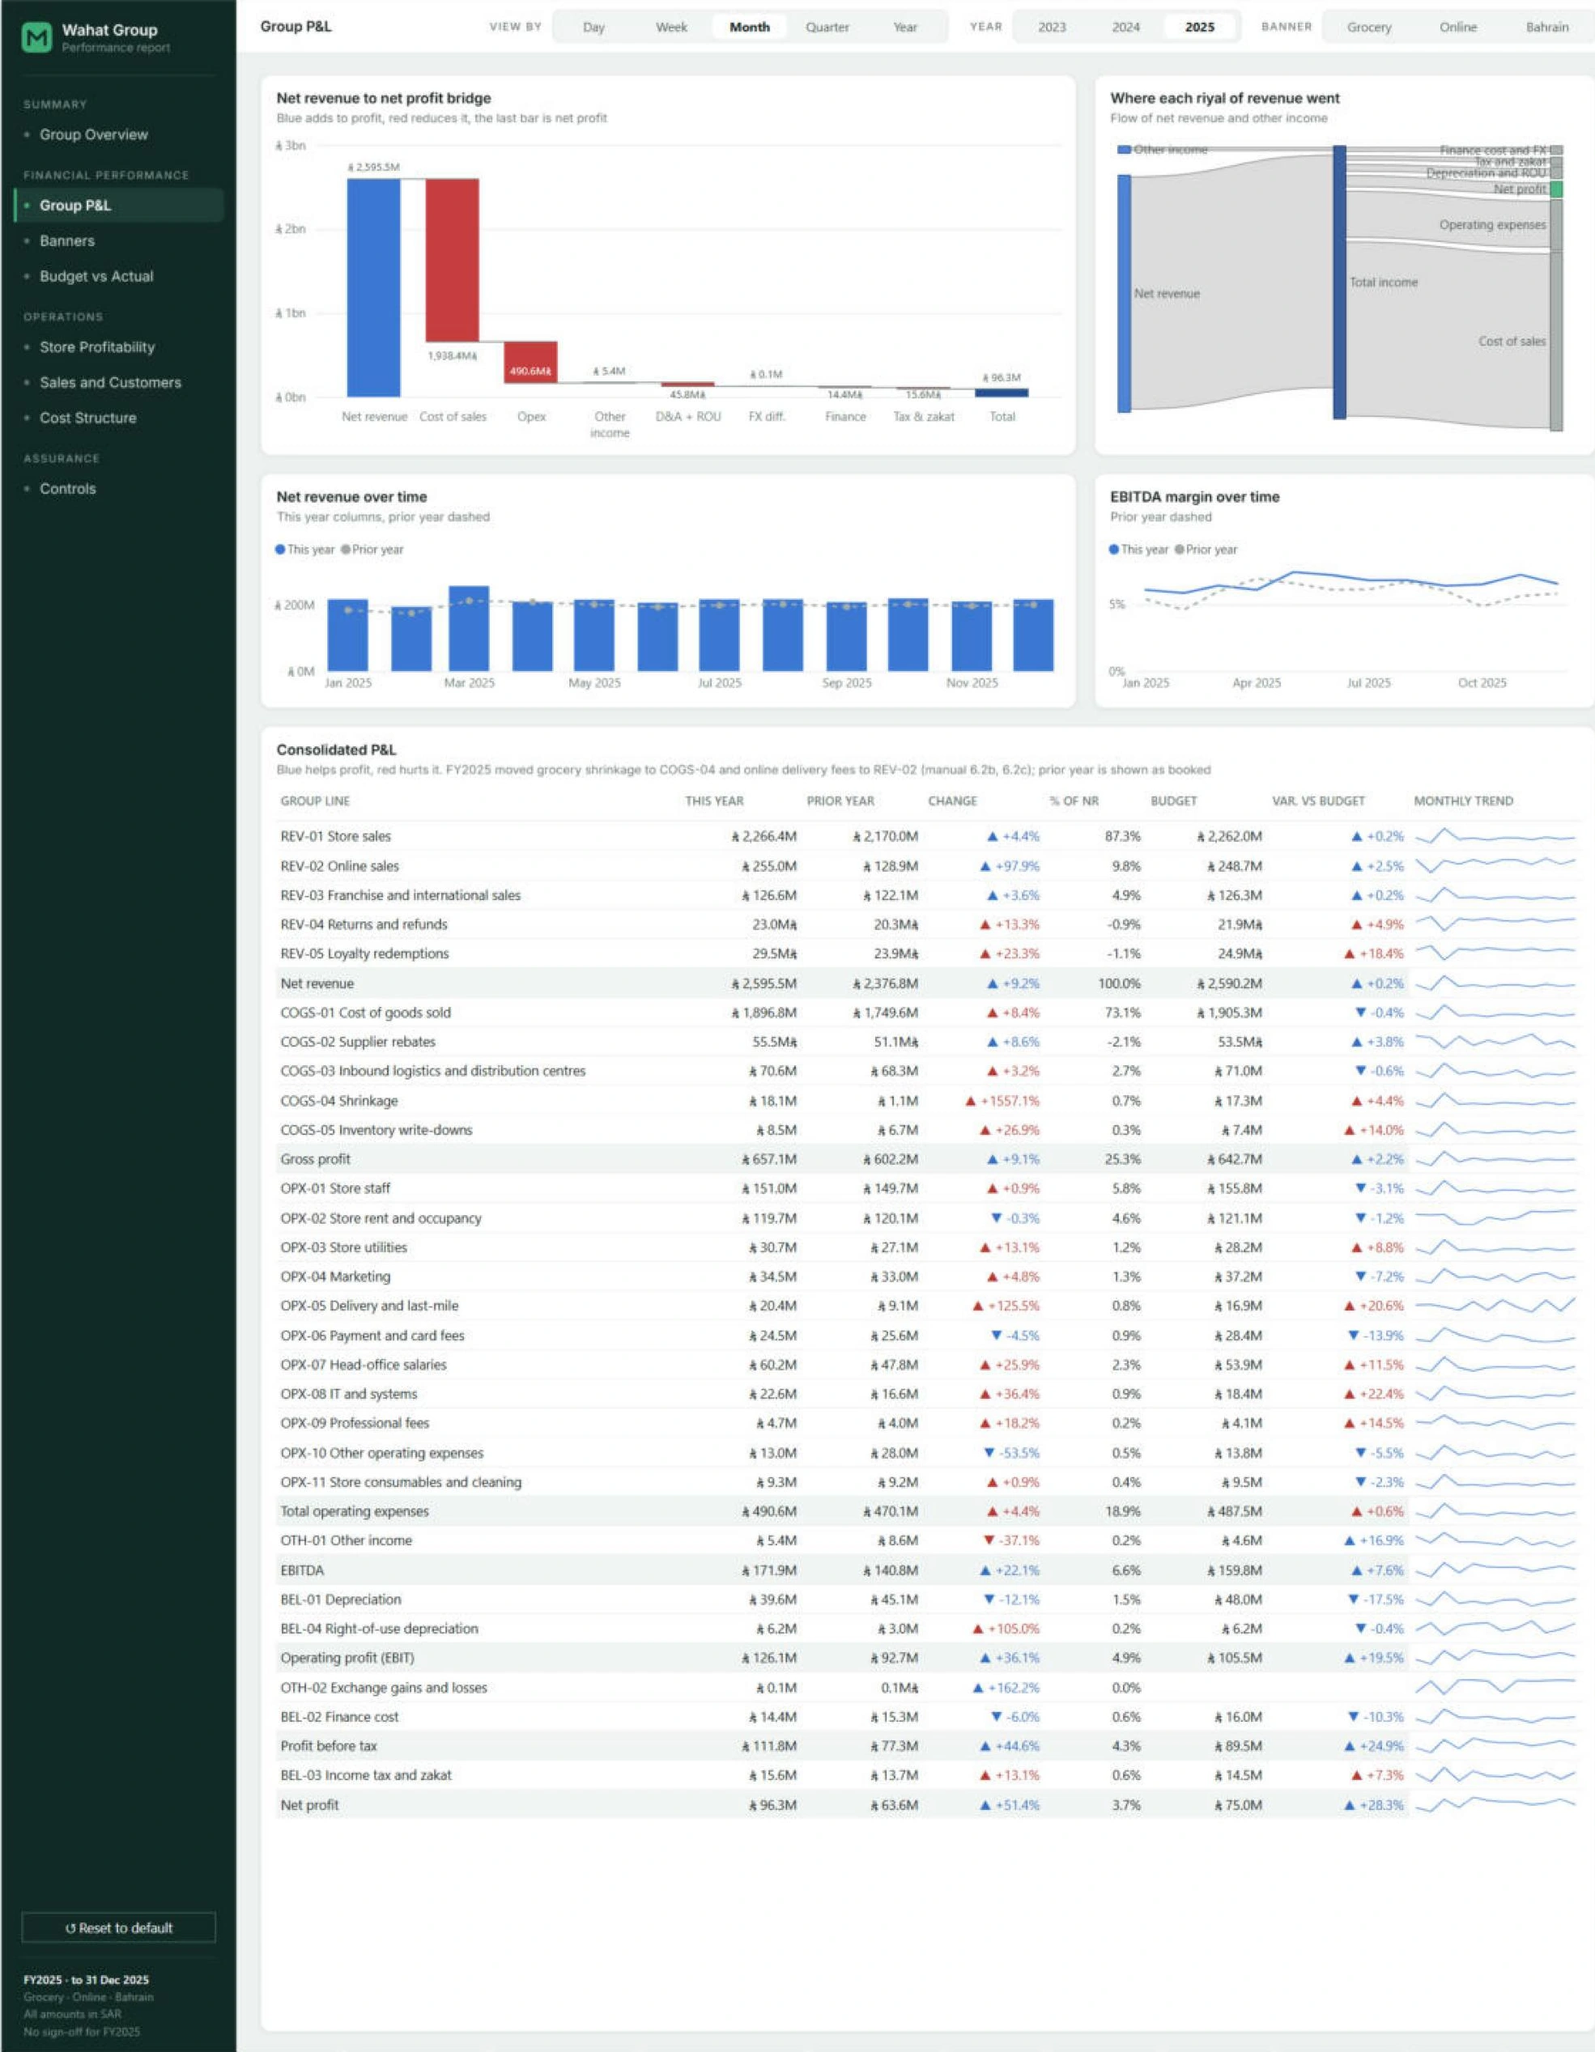
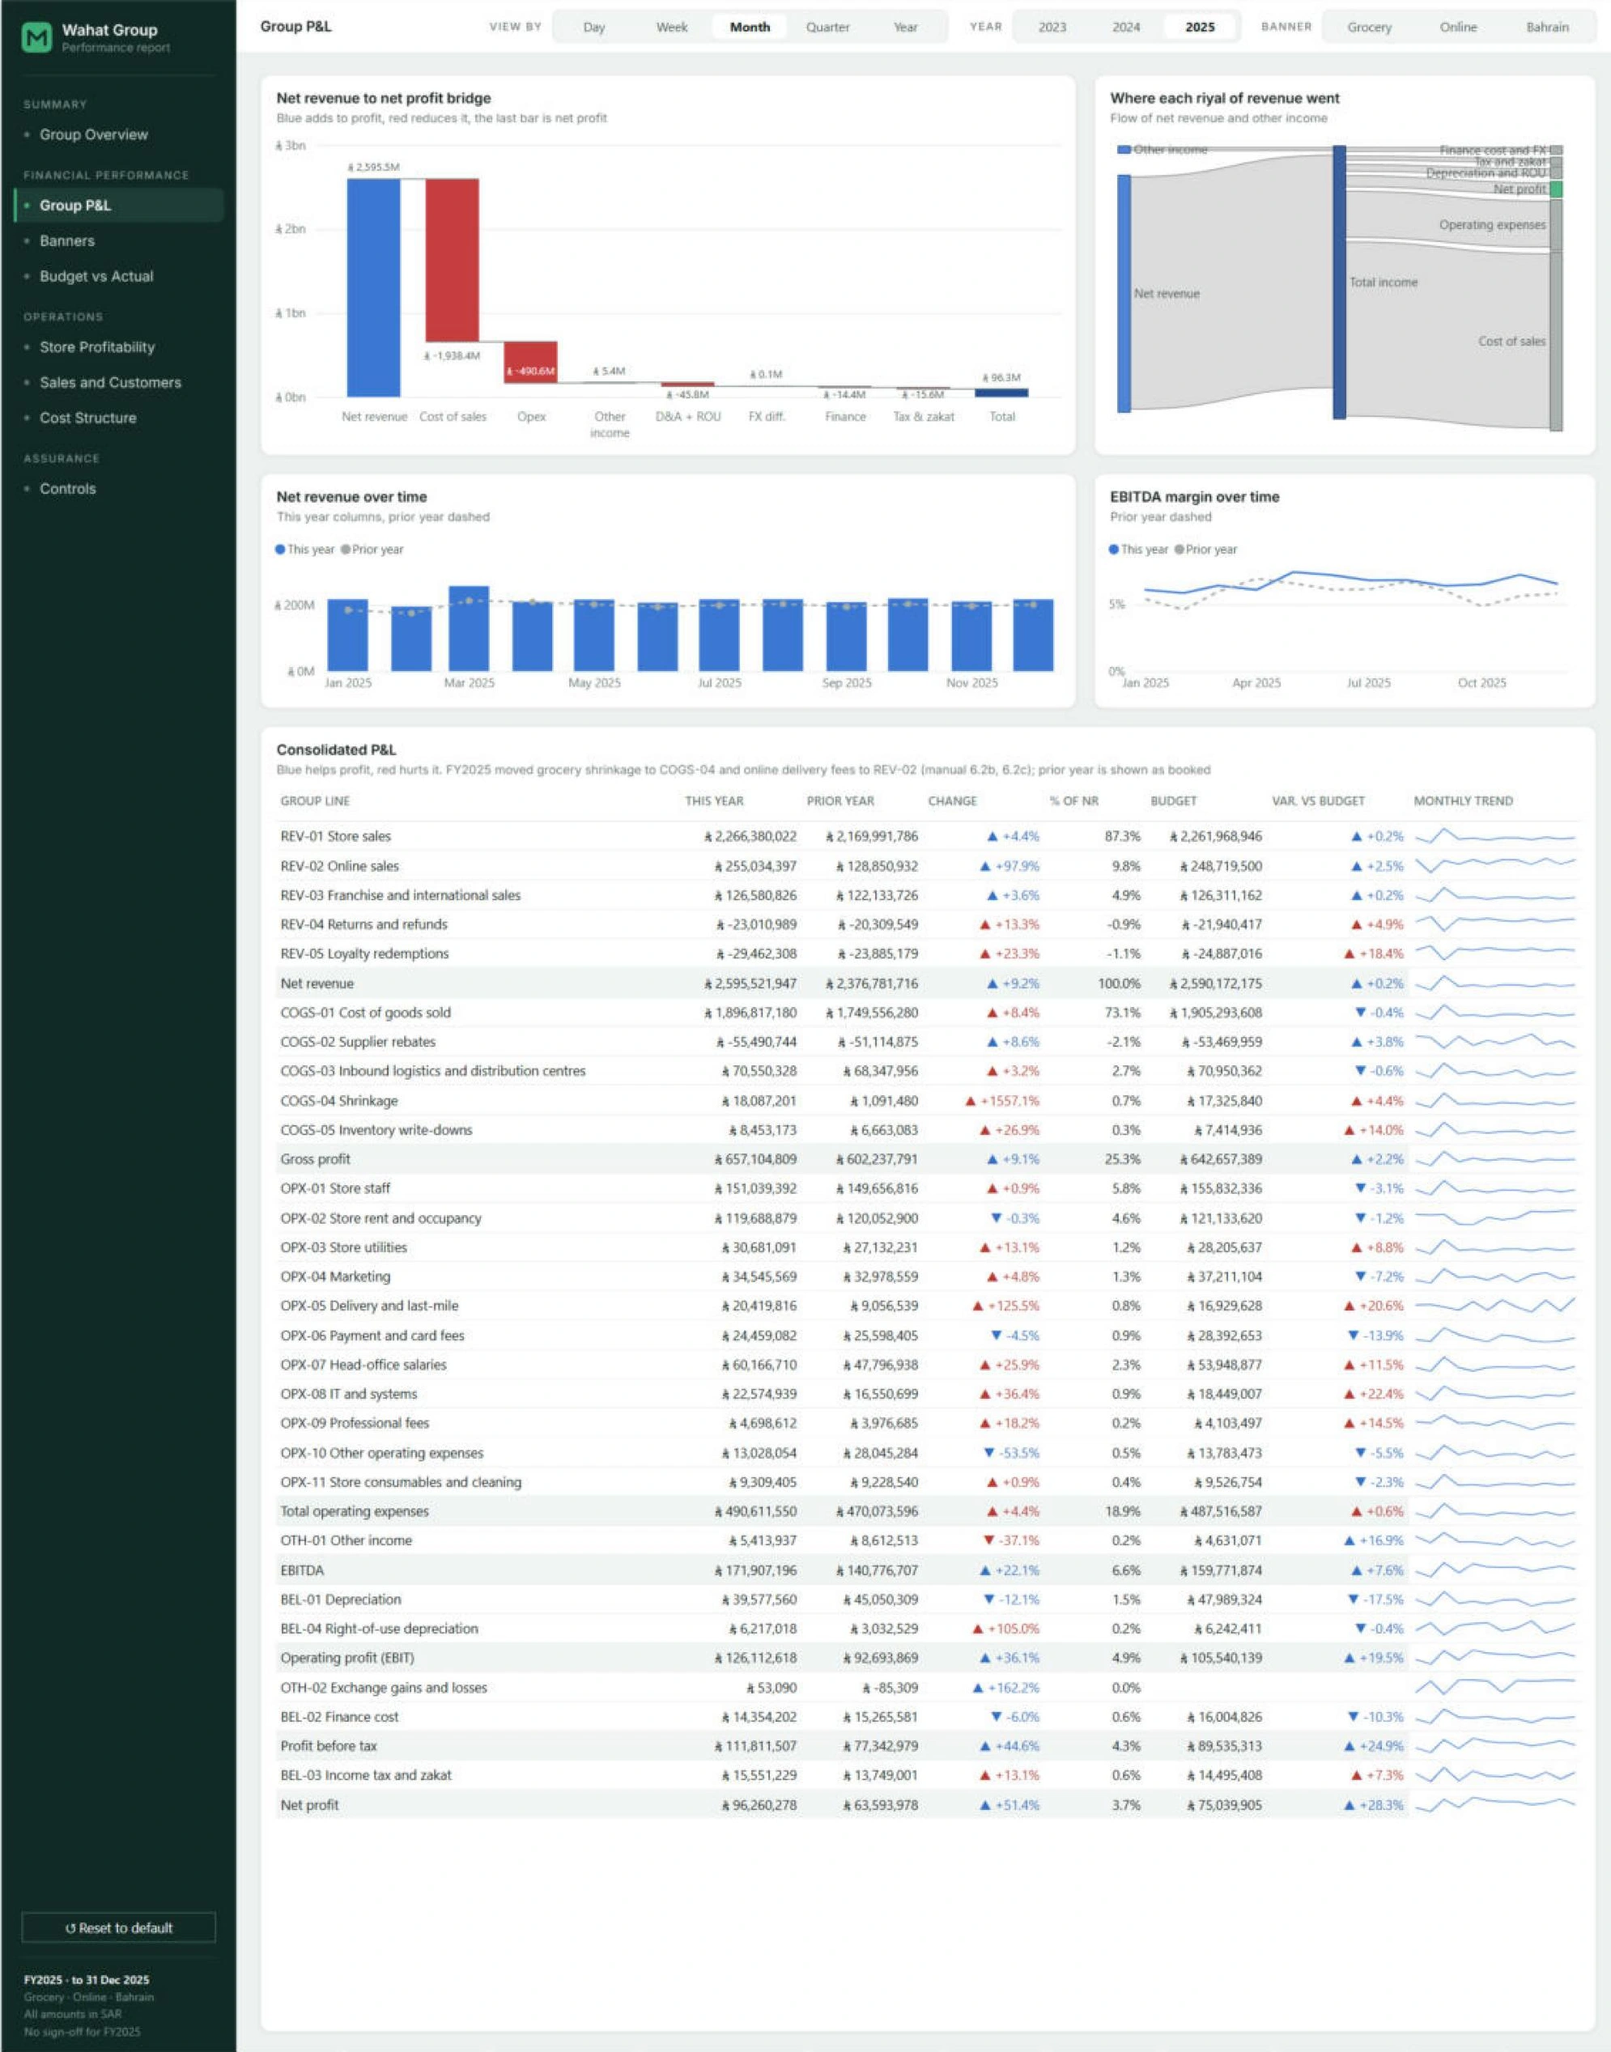
Riyal sign on the left for all amounts, full numbers in tables, riyal sign in tooltips + Update Wahat Power BI write-up and screenshots for riyal format and table units
- _Measures: one static format string for all 72 money measures,
  "⃁"\ #,0;"⃁"\ -#,0;"⃁"\ #,0, so negatives show the sign on the left
  like positives. Removed the ar-SA format hint so Desktop keeps it.
- Tooltip text measures, Tile Context EBITDA Budget and Loss Stores Note:
  "SAR" replaced with the riyal sign, minus after the sign.
- pnl_lines, bud_lines, bn_scorecard, st_table: display units None,
  no forced decimals.
- power-bi/README.md: "Money always looks like money" and Display units
  sections describe the left-side riyal sign and full numbers in every
  table; tooltip DAX snippets use the riyal sign.
- Retook screenshots 01 to 05 and 09 so they show the current format.

diff --git a/projects/wahat-retail-group-financial-report/power-bi/README.md b/projects/wahat-retail-group-financial-report/power-bi/README.md
@@ -160,13 +160,16 @@ Move the mouse over a month, a shop or a P&L line, and a small pop-up card appea
 
 ### 8. Money always looks like money
 
-Every amount shows the Saudi riyal sign. Each chart picks the size that reads best:
-- big totals in **millions** (2,595.5M),
-- single shops in **thousands** (-234K),
-- money per square metre **in full** (887),
-- the check tables **in full, to the last riyal**, because a check has to be exact.
+Every amount shows the Saudi riyal sign, always on the left, with the minus sign after it (⃁ -1,938.4M). Every number on every page reads the same way, tooltips included.
 
-**Why:** short numbers are easier on the eye, but a reconciliation can't round.
+Each chart picks the size that reads best:
+- big totals in **millions** (⃁ 2,595.5M),
+- single shops in **thousands** (⃁ -234K),
+- money per square metre **in full** (⃁ 887).
+
+Every table shows **full numbers, to the last riyal** (⃁ 2,266,380,022).
+
+**Why:** short numbers are easier on the eye in a chart. A table is read line by line and has to add up, so it can't round.
 
 ### 9. Simple sums on the inside, so it stays fast
 
@@ -2123,7 +2126,7 @@ VAR BudgetMillions =
 VAR Pattern =
     IF ( ABS ( BudgetMillions ) >= 100, "#,0", "#,0.0" )
 RETURN
-    "budget SAR " & FORMAT ( BudgetMillions, Pattern ) & "M"
+    "budget ⃁ " & FORMAT ( BudgetMillions, Pattern ) & "M"
 ```
 
 ```dax
@@ -2133,7 +2136,7 @@ FORMAT ( [Stores Whole Year], "#,0" ) & " traded the whole year"
 
 ```dax
 Loss Stores Note =
-FORMAT ( [Stores Below Loss Threshold] + 0, "#,0" ) & " below SAR -50,000"
+FORMAT ( [Stores Below Loss Threshold] + 0, "#,0" ) & " below ⃁ -50,000"
 ```
 
 ```dax
@@ -3050,7 +3053,7 @@ RETURN
 TT Net Revenue =
 VAR AmountShown = [Net Revenue]
 RETURN
-    IF ( NOT ISBLANK ( AmountShown ), IF ( AmountShown < 0, "-", "" ) & "SAR " & SWITCH ( TRUE (), ABS ( AmountShown ) >= 1E9, FORMAT ( ABS ( AmountShown ) / 1E9, "0.00" ) & "bn", ABS ( AmountShown ) >= 1E8, FORMAT ( ABS ( AmountShown ) / 1E6, "#,0" ) & "M", ABS ( AmountShown ) >= 1E6, FORMAT ( ABS ( AmountShown ) / 1E6, "0.0" ) & "M", ABS ( AmountShown ) >= 1E5, FORMAT ( ABS ( AmountShown ) / 1E3, "#,0" ) & "K", ABS ( AmountShown ) >= 1E3, FORMAT ( ABS ( AmountShown ) / 1E3, "0.0" ) & "K", FORMAT ( ABS ( AmountShown ), "#,0" ) ) )
+    IF ( NOT ISBLANK ( AmountShown ), "⃁ " & IF ( AmountShown < 0, "-", "" ) & SWITCH ( TRUE (), ABS ( AmountShown ) >= 1E9, FORMAT ( ABS ( AmountShown ) / 1E9, "0.00" ) & "bn", ABS ( AmountShown ) >= 1E8, FORMAT ( ABS ( AmountShown ) / 1E6, "#,0" ) & "M", ABS ( AmountShown ) >= 1E6, FORMAT ( ABS ( AmountShown ) / 1E6, "0.0" ) & "M", ABS ( AmountShown ) >= 1E5, FORMAT ( ABS ( AmountShown ) / 1E3, "#,0" ) & "K", ABS ( AmountShown ) >= 1E3, FORMAT ( ABS ( AmountShown ) / 1E3, "0.0" ) & "K", FORMAT ( ABS ( AmountShown ), "#,0" ) ) )
 ```
 
 ```dax
@@ -3094,7 +3097,7 @@ RETURN
 TT EBITDA =
 VAR AmountShown = [EBITDA]
 RETURN
-    IF ( NOT ISBLANK ( AmountShown ), IF ( AmountShown < 0, "-", "" ) & "SAR " & SWITCH ( TRUE (), ABS ( AmountShown ) >= 1E9, FORMAT ( ABS ( AmountShown ) / 1E9, "0.00" ) & "bn", ABS ( AmountShown ) >= 1E8, FORMAT ( ABS ( AmountShown ) / 1E6, "#,0" ) & "M", ABS ( AmountShown ) >= 1E6, FORMAT ( ABS ( AmountShown ) / 1E6, "0.0" ) & "M", ABS ( AmountShown ) >= 1E5, FORMAT ( ABS ( AmountShown ) / 1E3, "#,0" ) & "K", ABS ( AmountShown ) >= 1E3, FORMAT ( ABS ( AmountShown ) / 1E3, "0.0" ) & "K", FORMAT ( ABS ( AmountShown ), "#,0" ) ) )
+    IF ( NOT ISBLANK ( AmountShown ), "⃁ " & IF ( AmountShown < 0, "-", "" ) & SWITCH ( TRUE (), ABS ( AmountShown ) >= 1E9, FORMAT ( ABS ( AmountShown ) / 1E9, "0.00" ) & "bn", ABS ( AmountShown ) >= 1E8, FORMAT ( ABS ( AmountShown ) / 1E6, "#,0" ) & "M", ABS ( AmountShown ) >= 1E6, FORMAT ( ABS ( AmountShown ) / 1E6, "0.0" ) & "M", ABS ( AmountShown ) >= 1E5, FORMAT ( ABS ( AmountShown ) / 1E3, "#,0" ) & "K", ABS ( AmountShown ) >= 1E3, FORMAT ( ABS ( AmountShown ) / 1E3, "0.0" ) & "K", FORMAT ( ABS ( AmountShown ), "#,0" ) ) )
 ```
 
 ```dax
@@ -3115,7 +3118,7 @@ RETURN
 TT EBITDA vs Budget =
 VAR BudgetGap = [EBITDA] - [Budget EBITDA]
 RETURN
-    IF ( ISBLANK ( [Budget EBITDA] ), "no budget", IF ( BudgetGap >= 0, "+", "-" ) & "SAR " & SWITCH ( TRUE (), ABS ( BudgetGap ) >= 1E9, FORMAT ( ABS ( BudgetGap ) / 1E9, "0.00" ) & "bn", ABS ( BudgetGap ) >= 1E8, FORMAT ( ABS ( BudgetGap ) / 1E6, "#,0" ) & "M", ABS ( BudgetGap ) >= 1E6, FORMAT ( ABS ( BudgetGap ) / 1E6, "0.0" ) & "M", ABS ( BudgetGap ) >= 1E5, FORMAT ( ABS ( BudgetGap ) / 1E3, "#,0" ) & "K", ABS ( BudgetGap ) >= 1E3, FORMAT ( ABS ( BudgetGap ) / 1E3, "0.0" ) & "K", FORMAT ( ABS ( BudgetGap ), "#,0" ) ) )
+    IF ( ISBLANK ( [Budget EBITDA] ), "no budget", "⃁ " & IF ( BudgetGap >= 0, "+", "-" ) & SWITCH ( TRUE (), ABS ( BudgetGap ) >= 1E9, FORMAT ( ABS ( BudgetGap ) / 1E9, "0.00" ) & "bn", ABS ( BudgetGap ) >= 1E8, FORMAT ( ABS ( BudgetGap ) / 1E6, "#,0" ) & "M", ABS ( BudgetGap ) >= 1E6, FORMAT ( ABS ( BudgetGap ) / 1E6, "0.0" ) & "M", ABS ( BudgetGap ) >= 1E5, FORMAT ( ABS ( BudgetGap ) / 1E3, "#,0" ) & "K", ABS ( BudgetGap ) >= 1E3, FORMAT ( ABS ( BudgetGap ) / 1E3, "0.0" ) & "K", FORMAT ( ABS ( BudgetGap ), "#,0" ) ) )
 ```
 
 ```dax
@@ -3166,14 +3169,14 @@ IF ( HASONEVALUE ( DimDate[Year] ), "FY" & ( VALUES ( DimDate[Year] ) - 1 ), "Pr
 TT Line Value =
 VAR AmountShown = [Line Value]
 RETURN
-    IF ( NOT ISBLANK ( AmountShown ), IF ( AmountShown < 0, "-", "" ) & "SAR " & SWITCH ( TRUE (), ABS ( AmountShown ) >= 1E9, FORMAT ( ABS ( AmountShown ) / 1E9, "0.00" ) & "bn", ABS ( AmountShown ) >= 1E8, FORMAT ( ABS ( AmountShown ) / 1E6, "#,0" ) & "M", ABS ( AmountShown ) >= 1E6, FORMAT ( ABS ( AmountShown ) / 1E6, "0.0" ) & "M", ABS ( AmountShown ) >= 1E5, FORMAT ( ABS ( AmountShown ) / 1E3, "#,0" ) & "K", ABS ( AmountShown ) >= 1E3, FORMAT ( ABS ( AmountShown ) / 1E3, "0.0" ) & "K", FORMAT ( ABS ( AmountShown ), "#,0" ) ) )
+    IF ( NOT ISBLANK ( AmountShown ), "⃁ " & IF ( AmountShown < 0, "-", "" ) & SWITCH ( TRUE (), ABS ( AmountShown ) >= 1E9, FORMAT ( ABS ( AmountShown ) / 1E9, "0.00" ) & "bn", ABS ( AmountShown ) >= 1E8, FORMAT ( ABS ( AmountShown ) / 1E6, "#,0" ) & "M", ABS ( AmountShown ) >= 1E6, FORMAT ( ABS ( AmountShown ) / 1E6, "0.0" ) & "M", ABS ( AmountShown ) >= 1E5, FORMAT ( ABS ( AmountShown ) / 1E3, "#,0" ) & "K", ABS ( AmountShown ) >= 1E3, FORMAT ( ABS ( AmountShown ) / 1E3, "0.0" ) & "K", FORMAT ( ABS ( AmountShown ), "#,0" ) ) )
 ```
 
 ```dax
 TT Line Prior Year =
 VAR AmountShown = CALCULATE ( [Line Value], 'Time Intelligence'[Time Calculation] = "PY" )
 RETURN
-    IF ( NOT ISBLANK ( AmountShown ), IF ( AmountShown < 0, "-", "" ) & "SAR " & SWITCH ( TRUE (), ABS ( AmountShown ) >= 1E9, FORMAT ( ABS ( AmountShown ) / 1E9, "0.00" ) & "bn", ABS ( AmountShown ) >= 1E8, FORMAT ( ABS ( AmountShown ) / 1E6, "#,0" ) & "M", ABS ( AmountShown ) >= 1E6, FORMAT ( ABS ( AmountShown ) / 1E6, "0.0" ) & "M", ABS ( AmountShown ) >= 1E5, FORMAT ( ABS ( AmountShown ) / 1E3, "#,0" ) & "K", ABS ( AmountShown ) >= 1E3, FORMAT ( ABS ( AmountShown ) / 1E3, "0.0" ) & "K", FORMAT ( ABS ( AmountShown ), "#,0" ) ) )
+    IF ( NOT ISBLANK ( AmountShown ), "⃁ " & IF ( AmountShown < 0, "-", "" ) & SWITCH ( TRUE (), ABS ( AmountShown ) >= 1E9, FORMAT ( ABS ( AmountShown ) / 1E9, "0.00" ) & "bn", ABS ( AmountShown ) >= 1E8, FORMAT ( ABS ( AmountShown ) / 1E6, "#,0" ) & "M", ABS ( AmountShown ) >= 1E6, FORMAT ( ABS ( AmountShown ) / 1E6, "0.0" ) & "M", ABS ( AmountShown ) >= 1E5, FORMAT ( ABS ( AmountShown ) / 1E3, "#,0" ) & "K", ABS ( AmountShown ) >= 1E3, FORMAT ( ABS ( AmountShown ) / 1E3, "0.0" ) & "K", FORMAT ( ABS ( AmountShown ), "#,0" ) ) )
 ```
 
 ```dax
@@ -3199,7 +3202,7 @@ TT Contribution Label =
 TT Store Contribution =
 VAR AmountShown = [Store Contribution]
 RETURN
-    IF ( NOT ISBLANK ( AmountShown ), IF ( AmountShown < 0, "-", "" ) & "SAR " & SWITCH ( TRUE (), ABS ( AmountShown ) >= 1E9, FORMAT ( ABS ( AmountShown ) / 1E9, "0.00" ) & "bn", ABS ( AmountShown ) >= 1E8, FORMAT ( ABS ( AmountShown ) / 1E6, "#,0" ) & "M", ABS ( AmountShown ) >= 1E6, FORMAT ( ABS ( AmountShown ) / 1E6, "0.0" ) & "M", ABS ( AmountShown ) >= 1E5, FORMAT ( ABS ( AmountShown ) / 1E3, "#,0" ) & "K", ABS ( AmountShown ) >= 1E3, FORMAT ( ABS ( AmountShown ) / 1E3, "0.0" ) & "K", FORMAT ( ABS ( AmountShown ), "#,0" ) ) )
+    IF ( NOT ISBLANK ( AmountShown ), "⃁ " & IF ( AmountShown < 0, "-", "" ) & SWITCH ( TRUE (), ABS ( AmountShown ) >= 1E9, FORMAT ( ABS ( AmountShown ) / 1E9, "0.00" ) & "bn", ABS ( AmountShown ) >= 1E8, FORMAT ( ABS ( AmountShown ) / 1E6, "#,0" ) & "M", ABS ( AmountShown ) >= 1E6, FORMAT ( ABS ( AmountShown ) / 1E6, "0.0" ) & "M", ABS ( AmountShown ) >= 1E5, FORMAT ( ABS ( AmountShown ) / 1E3, "#,0" ) & "K", ABS ( AmountShown ) >= 1E3, FORMAT ( ABS ( AmountShown ) / 1E3, "0.0" ) & "K", FORMAT ( ABS ( AmountShown ), "#,0" ) ) )
 ```
 
 ```dax
@@ -3225,7 +3228,7 @@ FORMAT ( [Store Contribution Margin %], "0.0%" )
 TT Store per Sqm =
 VAR ContributionPerSqm = [Contribution per Sqm]
 RETURN
-    IF ( ISBLANK ( ContributionPerSqm ), "n/a", FORMAT ( ContributionPerSqm, "#,0" ) & " SAR" )
+    IF ( ISBLANK ( ContributionPerSqm ), "n/a", "⃁ " & FORMAT ( ContributionPerSqm, "#,0" ) )
 ```
 
 ```dax
@@ -3295,21 +3298,21 @@ RETURN
 TT Gross Profit =
 VAR AmountShown = [Gross Profit]
 RETURN
-    IF ( NOT ISBLANK ( AmountShown ), IF ( AmountShown < 0, "-", "" ) & "SAR " & SWITCH ( TRUE (), ABS ( AmountShown ) >= 1E9, FORMAT ( ABS ( AmountShown ) / 1E9, "0.00" ) & "bn", ABS ( AmountShown ) >= 1E8, FORMAT ( ABS ( AmountShown ) / 1E6, "#,0" ) & "M", ABS ( AmountShown ) >= 1E6, FORMAT ( ABS ( AmountShown ) / 1E6, "0.0" ) & "M", ABS ( AmountShown ) >= 1E5, FORMAT ( ABS ( AmountShown ) / 1E3, "#,0" ) & "K", ABS ( AmountShown ) >= 1E3, FORMAT ( ABS ( AmountShown ) / 1E3, "0.0" ) & "K", FORMAT ( ABS ( AmountShown ), "#,0" ) ) )
+    IF ( NOT ISBLANK ( AmountShown ), "⃁ " & IF ( AmountShown < 0, "-", "" ) & SWITCH ( TRUE (), ABS ( AmountShown ) >= 1E9, FORMAT ( ABS ( AmountShown ) / 1E9, "0.00" ) & "bn", ABS ( AmountShown ) >= 1E8, FORMAT ( ABS ( AmountShown ) / 1E6, "#,0" ) & "M", ABS ( AmountShown ) >= 1E6, FORMAT ( ABS ( AmountShown ) / 1E6, "0.0" ) & "M", ABS ( AmountShown ) >= 1E5, FORMAT ( ABS ( AmountShown ) / 1E3, "#,0" ) & "K", ABS ( AmountShown ) >= 1E3, FORMAT ( ABS ( AmountShown ) / 1E3, "0.0" ) & "K", FORMAT ( ABS ( AmountShown ), "#,0" ) ) )
 ```
 
 ```dax
 TT Operating Expenses =
 VAR AmountShown = [Operating Expenses]
 RETURN
-    IF ( NOT ISBLANK ( AmountShown ), IF ( AmountShown < 0, "-", "" ) & "SAR " & SWITCH ( TRUE (), ABS ( AmountShown ) >= 1E9, FORMAT ( ABS ( AmountShown ) / 1E9, "0.00" ) & "bn", ABS ( AmountShown ) >= 1E8, FORMAT ( ABS ( AmountShown ) / 1E6, "#,0" ) & "M", ABS ( AmountShown ) >= 1E6, FORMAT ( ABS ( AmountShown ) / 1E6, "0.0" ) & "M", ABS ( AmountShown ) >= 1E5, FORMAT ( ABS ( AmountShown ) / 1E3, "#,0" ) & "K", ABS ( AmountShown ) >= 1E3, FORMAT ( ABS ( AmountShown ) / 1E3, "0.0" ) & "K", FORMAT ( ABS ( AmountShown ), "#,0" ) ) )
+    IF ( NOT ISBLANK ( AmountShown ), "⃁ " & IF ( AmountShown < 0, "-", "" ) & SWITCH ( TRUE (), ABS ( AmountShown ) >= 1E9, FORMAT ( ABS ( AmountShown ) / 1E9, "0.00" ) & "bn", ABS ( AmountShown ) >= 1E8, FORMAT ( ABS ( AmountShown ) / 1E6, "#,0" ) & "M", ABS ( AmountShown ) >= 1E6, FORMAT ( ABS ( AmountShown ) / 1E6, "0.0" ) & "M", ABS ( AmountShown ) >= 1E5, FORMAT ( ABS ( AmountShown ) / 1E3, "#,0" ) & "K", ABS ( AmountShown ) >= 1E3, FORMAT ( ABS ( AmountShown ) / 1E3, "0.0" ) & "K", FORMAT ( ABS ( AmountShown ), "#,0" ) ) )
 ```
 
 ```dax
 TT Net Profit =
 VAR AmountShown = [Net Profit]
 RETURN
-    IF ( NOT ISBLANK ( AmountShown ), IF ( AmountShown < 0, "-", "" ) & "SAR " & SWITCH ( TRUE (), ABS ( AmountShown ) >= 1E9, FORMAT ( ABS ( AmountShown ) / 1E9, "0.00" ) & "bn", ABS ( AmountShown ) >= 1E8, FORMAT ( ABS ( AmountShown ) / 1E6, "#,0" ) & "M", ABS ( AmountShown ) >= 1E6, FORMAT ( ABS ( AmountShown ) / 1E6, "0.0" ) & "M", ABS ( AmountShown ) >= 1E5, FORMAT ( ABS ( AmountShown ) / 1E3, "#,0" ) & "K", ABS ( AmountShown ) >= 1E3, FORMAT ( ABS ( AmountShown ) / 1E3, "0.0" ) & "K", FORMAT ( ABS ( AmountShown ), "#,0" ) ) )
+    IF ( NOT ISBLANK ( AmountShown ), "⃁ " & IF ( AmountShown < 0, "-", "" ) & SWITCH ( TRUE (), ABS ( AmountShown ) >= 1E9, FORMAT ( ABS ( AmountShown ) / 1E9, "0.00" ) & "bn", ABS ( AmountShown ) >= 1E8, FORMAT ( ABS ( AmountShown ) / 1E6, "#,0" ) & "M", ABS ( AmountShown ) >= 1E6, FORMAT ( ABS ( AmountShown ) / 1E6, "0.0" ) & "M", ABS ( AmountShown ) >= 1E5, FORMAT ( ABS ( AmountShown ) / 1E3, "#,0" ) & "K", ABS ( AmountShown ) >= 1E3, FORMAT ( ABS ( AmountShown ) / 1E3, "0.0" ) & "K", FORMAT ( ABS ( AmountShown ), "#,0" ) ) )
 ```
 
 ```dax
@@ -3446,13 +3449,19 @@ The 36-month trends use the hidden `Trend Month` table as their axis, so the tre
 
 ### Display units
 
-All money measures use the Saudi riyal currency format. Display units are set per visual:
+All money measures share one static format string, with the riyal sign on the left for positive and negative values alike:
+
+```
+"⃁"\ #,0;"⃁"\ -#,0;"⃁"\ #,0
+```
+
+The tooltip measures that build text use the same sign, so tooltips match the visuals. Display units are set per visual:
 
 | Visual | Units |
 |---|---|
-| Profit bridges, contribution by city, P&L statement, budget variance table, monthly revenue, sales and budget charts, banner scorecard | Millions, 1 decimal |
-| Store Detail bridge and trend, store league table | Thousands |
-| KPI cards, per-sqm figures, every table on Controls | Full numbers, because a reconciliation has to be exact |
+| Profit bridges, contribution by city, monthly revenue, sales and budget charts | Millions, 1 decimal |
+| Store Detail bridge and trend | Thousands |
+| Every table and matrix (P&L statement, budget variance, banner scorecard, store league table, Controls), KPI cards, per-sqm figures | None: full numbers, so every row adds up |
 | Everything else | Auto |
 
 ### Every page and visual
